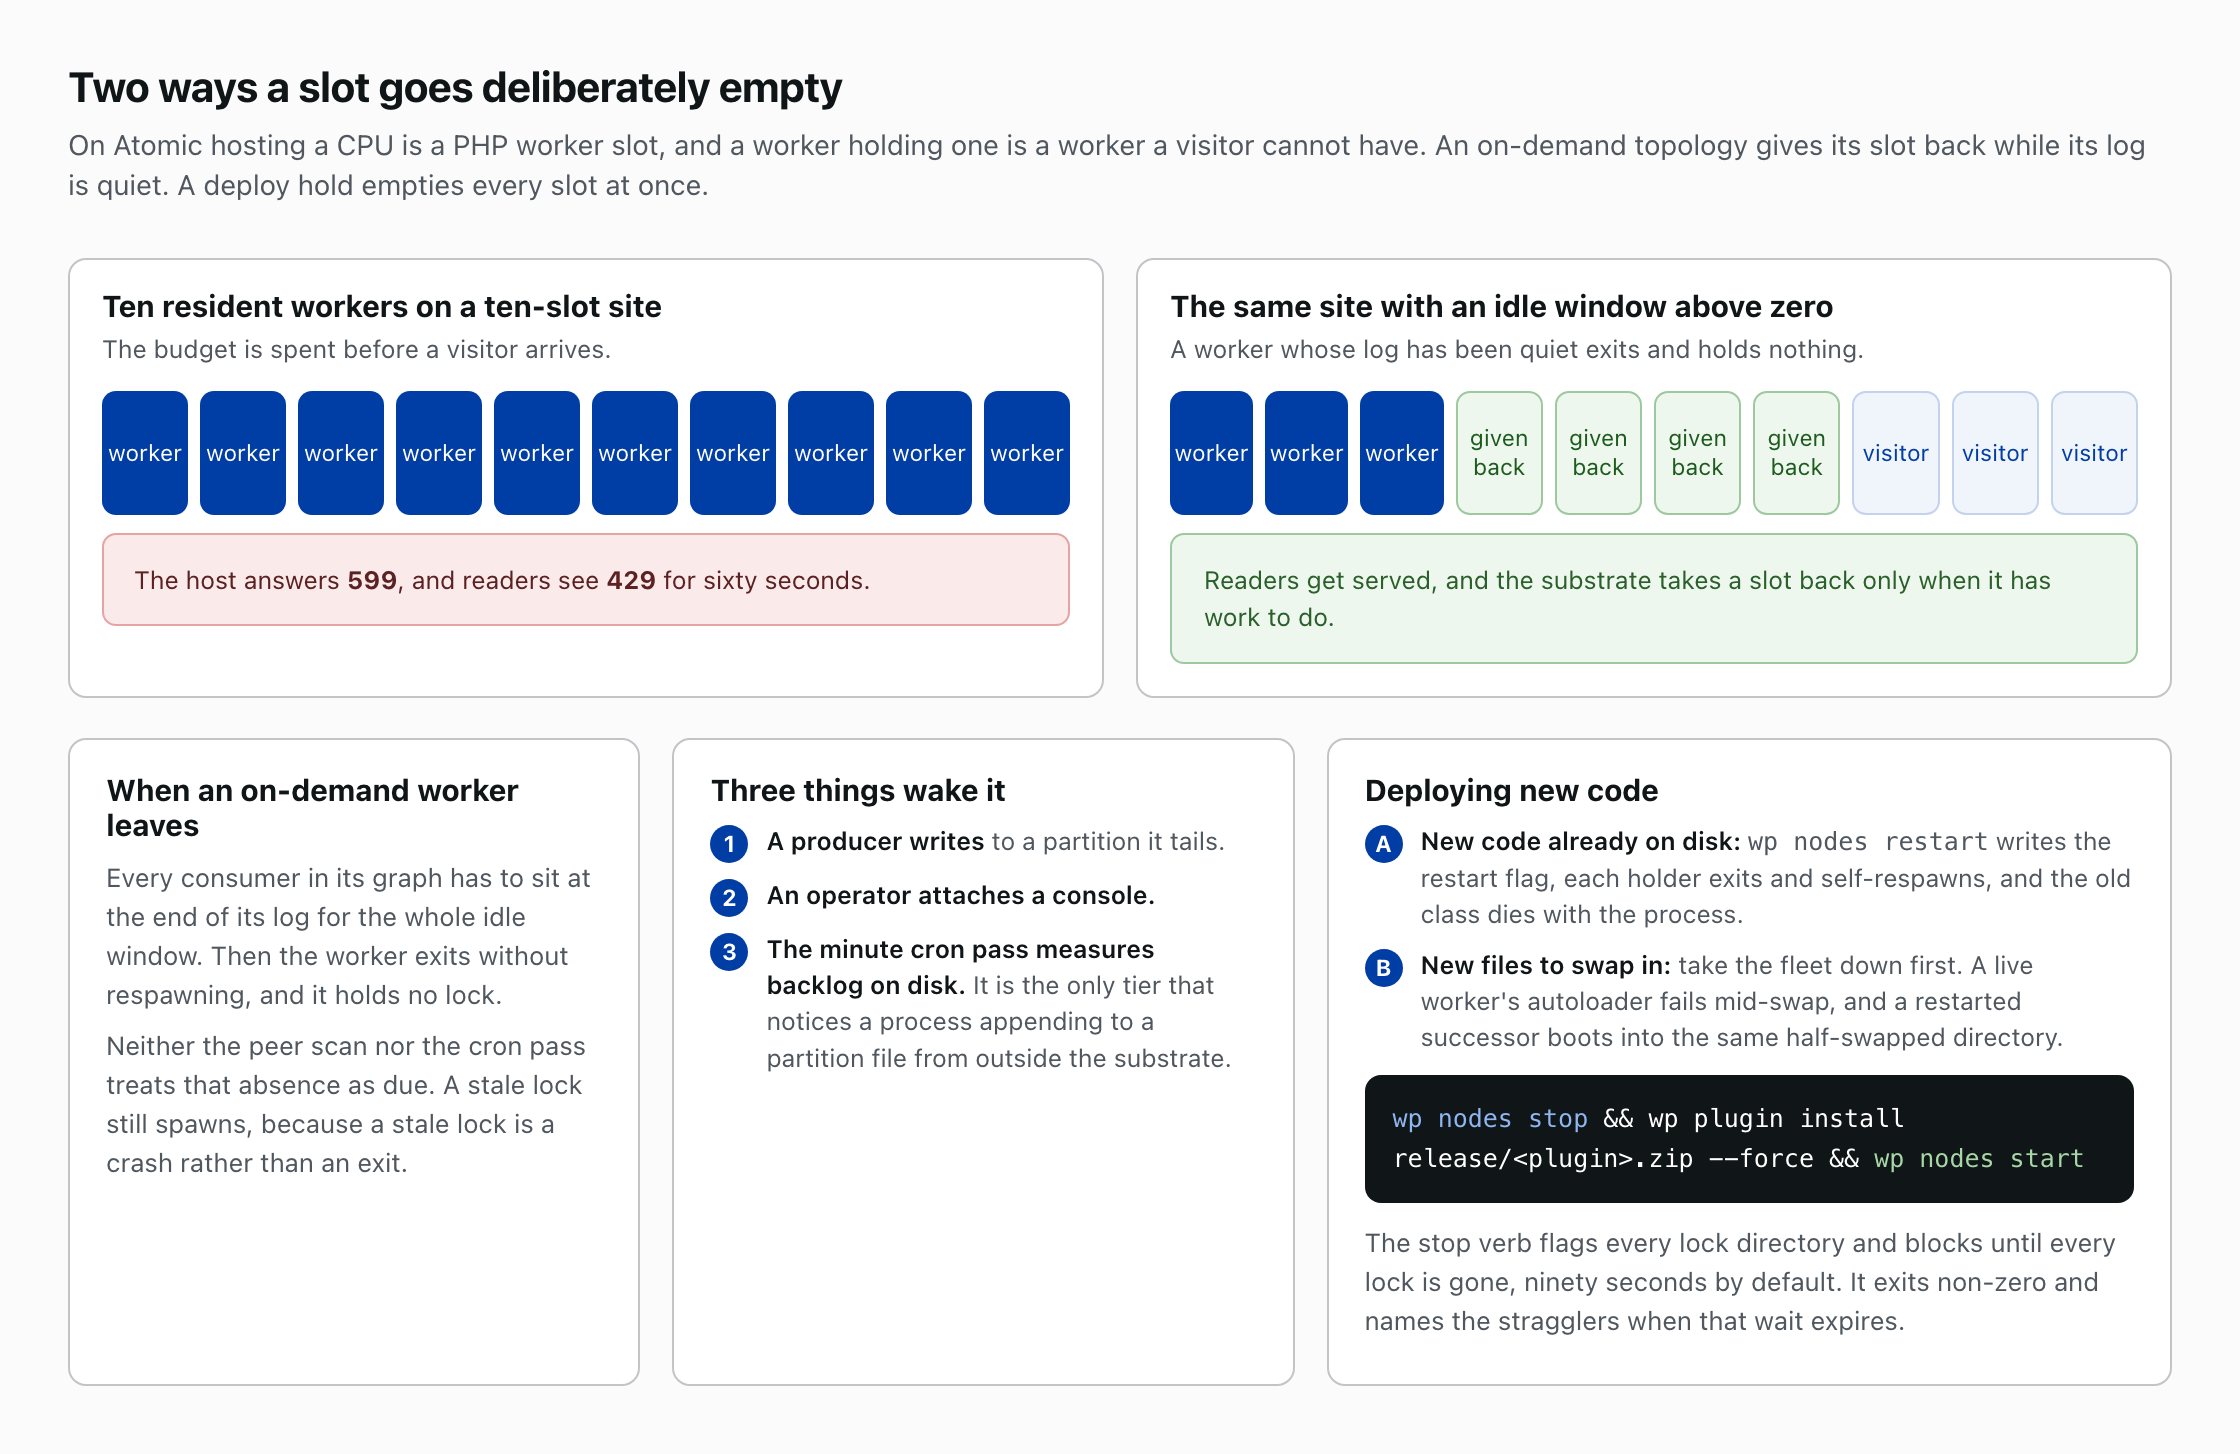
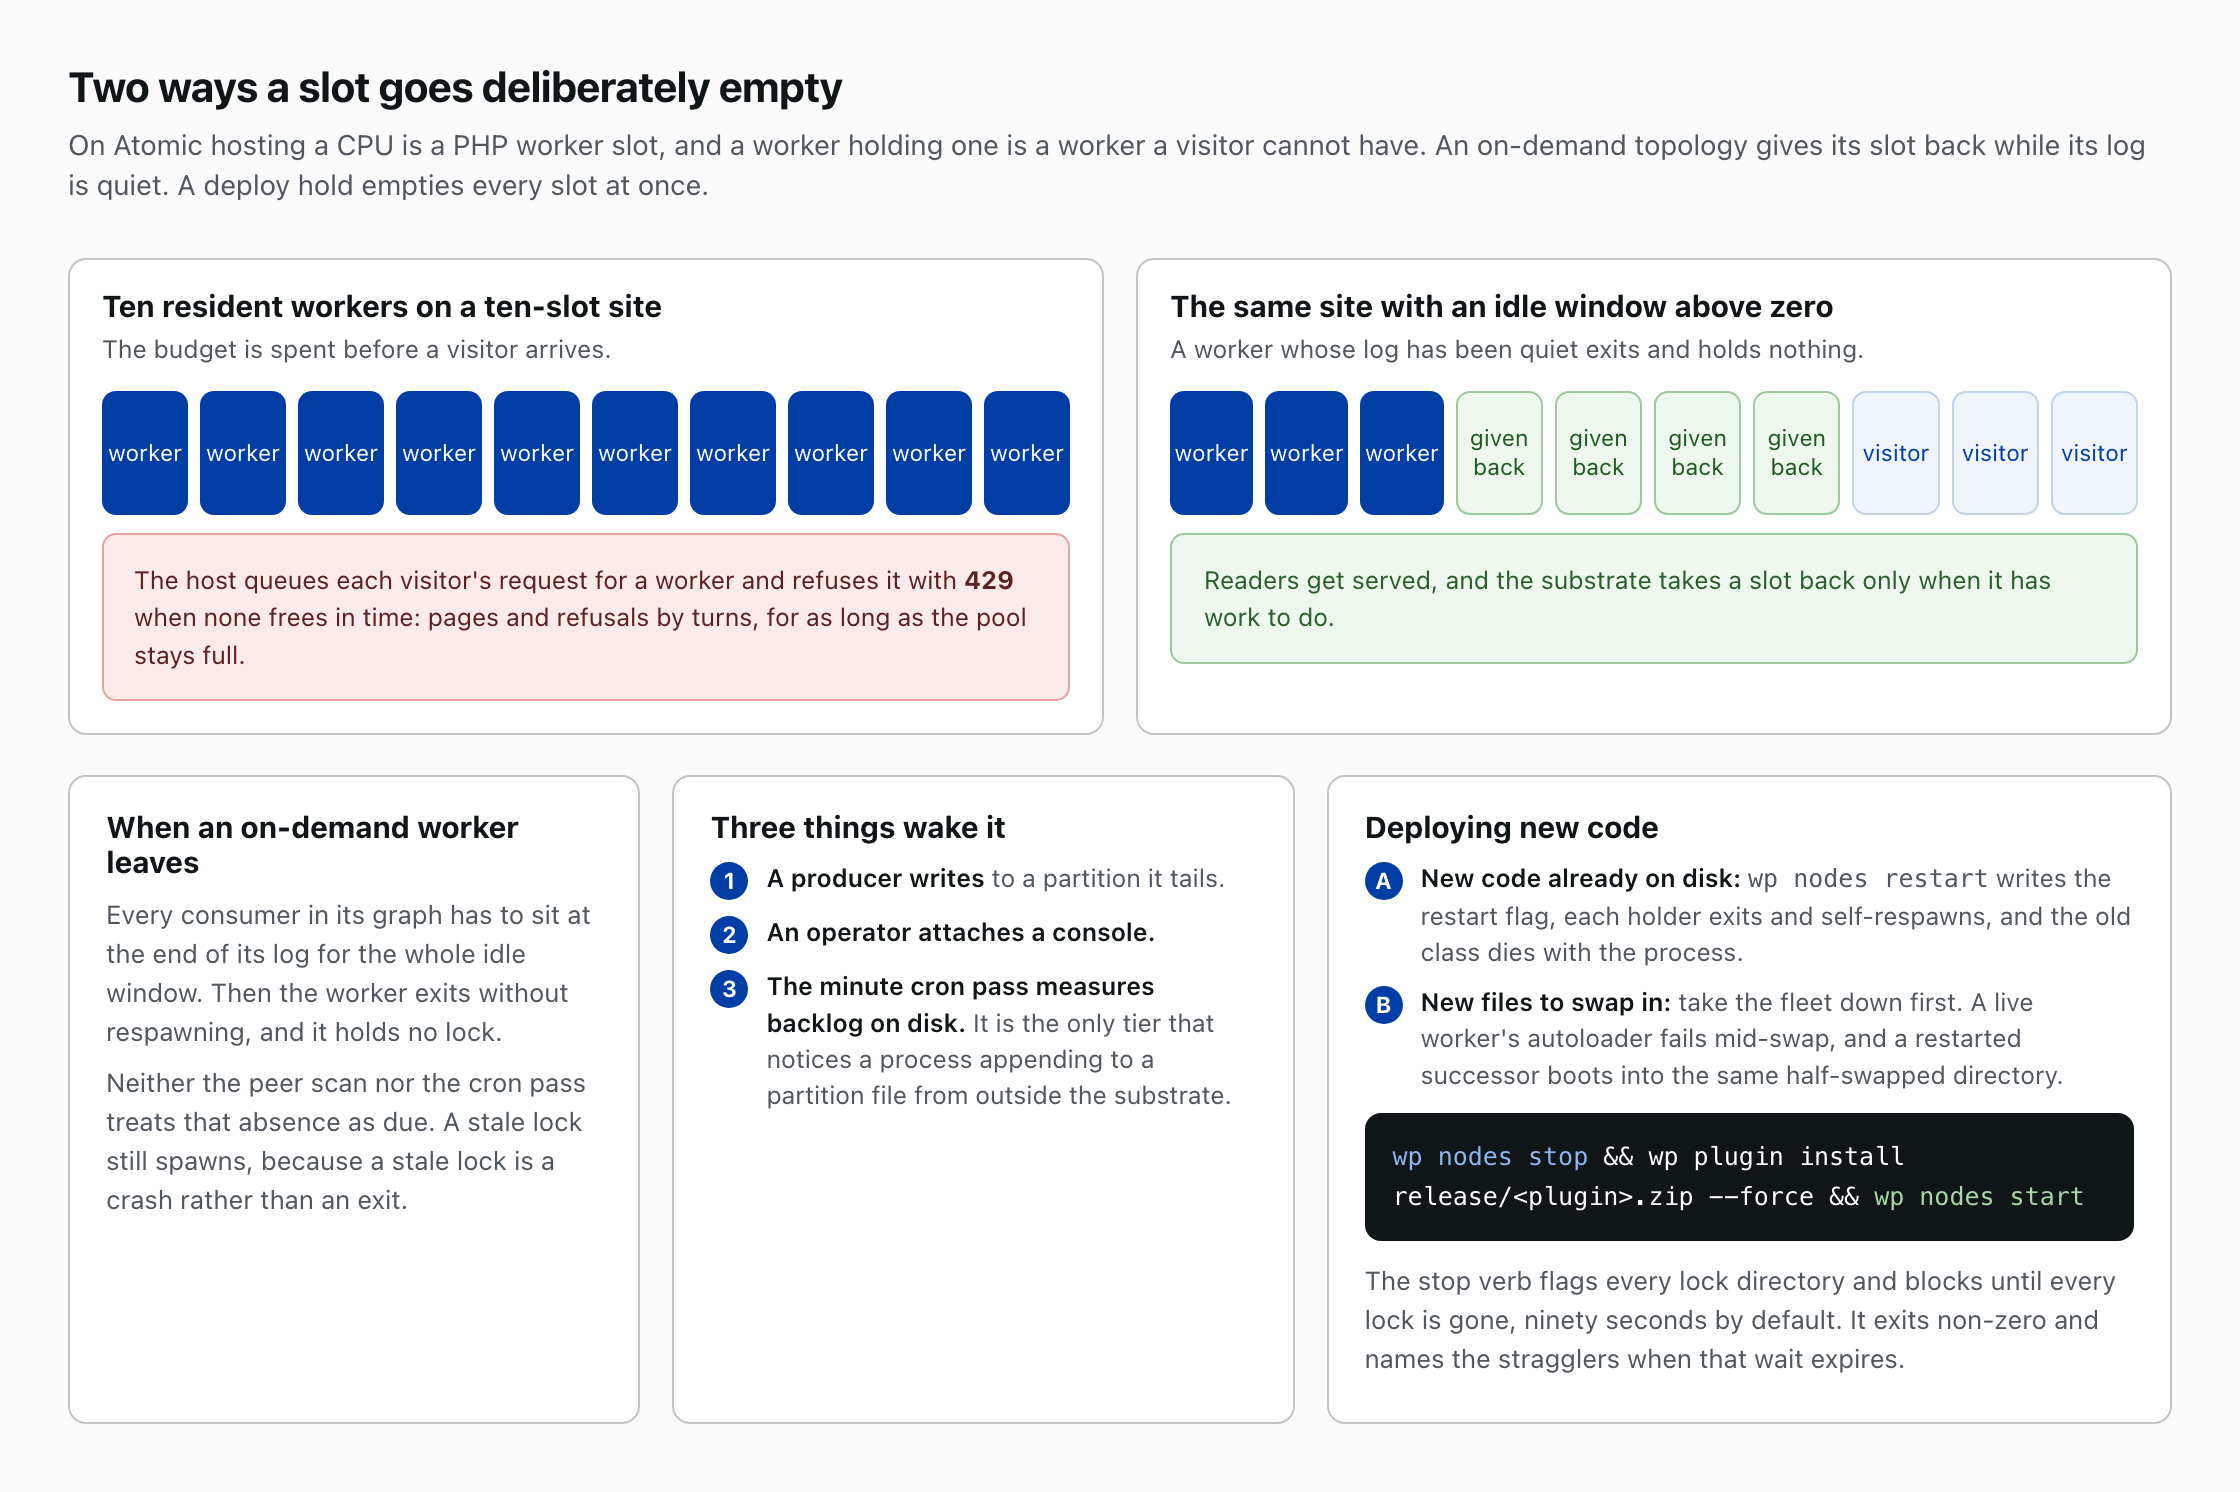
docs: a full worker pool refuses requests by turns, not for sixty seconds
Past the site's PHP worker allocation, Atomic queues each request for a
worker and refuses it with 429 when none frees in time, so readers get
pages and refusals request by request for as long as the pool stays
full. The sixty seconds the docs attached to that 429 belong to the
platform's edge challenge, a separate layer that is off for Newspack,
so the two chapters, two diagrams, the SSE budget rationale, the
2.29.0 upgrading entry and the slot-pool docblock now describe the
host's behaviour and name the edge challenge as optional.

diff --git a/docs/img/d08b.html b/docs/img/d08b.html
@@ -21,7 +21,7 @@ h2 { font-size:15px; margin:0 0 10px; }
 </style>
 <div class="sheet">
 <h1>The slot pool meters the stream</h1>
-<p class="sub">A stream holds one php-fpm child, one of the site's fixed pool of PHP processes, for its whole life. When PHP requests back up, the platform challenges every visitor for sixty seconds, so the pool caps streams before the platform steps in.</p>
+<p class="sub">A stream holds one php-fpm child, one of the site's fixed pool of PHP processes, for its whole life. Past the pool the platform queues each request for a worker and refuses it with 429 when none frees in time, so the pool caps streams before the platform steps in.</p>
 
 <h2>Six slots per host, three per identity, one lease each</h2>
 <div class="slots">

diff --git a/docs/img/d04c.html b/docs/img/d04c.html
@@ -43,7 +43,7 @@
         <div class="slot w">worker</div><div class="slot w">worker</div><div class="slot w">worker</div><div class="slot w">worker</div><div class="slot w">worker</div>
       </div>
       <div class="callout" style="margin-top:9px">
-        <p>The host answers <b>599</b>, and readers see <b>429</b> for sixty seconds.</p>
+        <p>The host queues each visitor's request for a worker and refuses it with <b>429</b> when none frees in time: pages and refusals by turns, for as long as the pool stays full.</p>
       </div>
     </div>
     <div class="bcard">

diff --git a/includes/class-sse-slot-pool.php b/includes/class-sse-slot-pool.php
@@ -87,8 +87,8 @@ class SSE_Slot_Pool {
 	 *
 	 * This is the cap that protects the site; the per-identity one only divides
 	 * it fairly. An SSE stream occupies a php-fpm child for its entire life, and
-	 * Atomic replies 599 once PHP requests backlog, which puts the EDGE into
-	 * auto-defensive mode for 60s for every visitor. The shipped 6 leaves room
+	 * past the site's worker allocation Atomic queues each request for a worker
+	 * and refuses it with 429 when none frees in time. The shipped 6 leaves room
 	 * in a ~10-worker allocation for page requests and the node worker itself.
 	 * See docs/sse-host-budget.md.
 	 *

diff --git a/docs/sse-host-budget.md b/docs/sse-host-budget.md
@@ -16,30 +16,39 @@ not per route.
 
 ## What the platform does when you run out
 
-Atomic replies **599** with an `a8c-internal-php-defensive-mode` header once a
-site has too many PHP requests backlogged. The edge host that received that
-response then turns on — or extends — **auto-defensive mode for 60 seconds**,
-locally, for that site. Every visitor routed through that edge host gets the
-challenge page, not just the traffic that caused the backlog.
+Every Atomic site has a PHP worker allocation, ten by default. Past it, the
+host holds each further PHP request in a queue for a worker, and a request no
+worker frees for in time is refused with a **429**. A request the queue does
+serve arrives slow; one it refuses arrives as an error page. So for as long as
+the workers stay busy, readers get pages and refusals by turns, request by
+request, and the stream that holds the worker sees neither.
+
+The platform may also put the site into defensive mode on its own: the edge
+location that saw the refusals answers every visitor through it with a
+browser challenge for a minute at a time, extended while the overload lasts.
+That mode was turned off for Newspack sites in February 2025, during its
+tuning, and nothing in this repository can confirm it still is, so treat it as
+a reprieve that can be withdrawn rather than as an exemption.
 
 Two consequences drive the defaults:
 
-- **The blast radius is the whole site, not the offending connection.** There is
-  no per-client shedding to hide behind. Saturating the workers degrades
-  everyone, which is why the cap must bind before the platform's does.
+- **The blast radius is the site's readers, not the offending connection.** A
+  stream holds its worker to the end, and the request that pays is the next
+  reader's. There is no per-client shedding to hide behind, which is why the
+  cap must bind before the platform's does.
 - **Burst capacity cannot be spent on something sustained.** Bursting above the
   configured allocation is explicitly not guaranteed, and sites that lean on it
   are expected to be resized rather than to keep leaning. A stream that holds a
   child for minutes is the exact shape of load that must fit inside the
   allocation.
 
-Source: [Clarification on Auto-Defensive
+Sources: [Clarification on Auto-Defensive
 Mode](https://edgeopsp2.wordpress.com/2025/02/27/clarification-on-auto-defensive-mode/)
-(edgeopsp2, 2025-02-27) — mechanism in Mark George's comment, the burst-capacity
-expectation and the 60-second window in Barry's. That post records the mode
-disabled for Newspack during tuning, and nothing in this repository can confirm
-it still is, so treat it as a reprieve that can be withdrawn rather than as an
-exemption.
+(edgeopsp2, 2025-02-27), the defensive-mode trigger in Mark George's comment,
+the burst-capacity expectation and the Newspack opt-out in Barry's; [429 & 599
+Errors](https://dotcomuniversity.wordpress.com/wow/site-performance/429-599-errors/)
+(dotcomuniversity) for the ten-worker default and the 429 a visitor sees past
+it.
 
 ## The arithmetic
 

diff --git a/docs/workers-and-the-fleet.md b/docs/workers-and-the-fleet.md
@@ -30,7 +30,7 @@ Every fifteen seconds the `_fleet` node in each live worker scans its peers' loc
 
 ## On-demand workers
 
-On Atomic a CPU is a PHP worker slot, and an idle worker holds one: ten resident workers on a ten-slot site spend the budget before a visitor arrives, the host answers 599, and readers see 429 for sixty seconds. A topology with an idle window above zero gives its slot back: once every consumer in its graph has sat at the end of its log for the whole window, the worker exits without respawning and holds no lock. Neither tier treats that absence as due, though a stale lock still spawns, because a stale lock is a crash. Three things wake it: a producer writing to a partition it tails, an operator attaching a console, and the minute cron pass measuring backlog on disk, the only tier that notices a write from outside the substrate. The resident set should hold only the topologies that cannot wait.
+On Atomic a CPU is a PHP worker slot, and an idle worker holds one: ten resident workers on a ten-slot site spend the budget before a visitor arrives, and the host then queues each visitor's request for a worker and refuses it with 429 when none frees in time, so readers get pages and refusals by turns for as long as the pool stays full. A topology with an idle window above zero gives its slot back: once every consumer in its graph has sat at the end of its log for the whole window, the worker exits without respawning and holds no lock. Neither tier treats that absence as due, though a stale lock still spawns, because a stale lock is a crash. Three things wake it: a producer writing to a partition it tails, an operator attaching a console, and the minute cron pass measuring backlog on disk, the only tier that notices a write from outside the substrate. The resident set should hold only the topologies that cannot wait.
 
 ## Deploy holds
 

diff --git a/docs/browser-runtime.md b/docs/browser-runtime.md
@@ -24,7 +24,7 @@ That stream is `GET /newspack-nodes/v1/messages/stream`, whose `subscribe` argum
 
 ## The slot pool
 
-The stream is the expensive channel. It holds one php-fpm child, one of the site's fixed pool of PHP processes, for its whole life, and a backlog of PHP requests makes the platform challenge every visitor for sixty seconds. The slot pool caps streams before the platform steps in.
+The stream is the expensive channel. It holds one php-fpm child, one of the site's fixed pool of PHP processes, for its whole life. Past the pool the platform queues each request for a worker and refuses it with 429 when none frees in time, so readers get pages and refusals by turns for as long as the pool stays full. The slot pool caps streams before the platform steps in.
 
 Each slot is two cache keys, a permanent owner pointer and an expiring lease, and nothing else. The defaults are six streams per host, three per identity and a sixty-second lease; a hub's pull of a spoke draws on the same six, and an identity holding three has its fourth tab refused with a 429. Acquire, check and touch fail closed: with no cache backend answering, ownership is unverifiable and every stream is refused; release fails open, because a lease expires anyway. One `_heartbeat` node per page pokes the heartbeat verb every fifteen seconds, pushing the lease out another sixty; the server reads it on every drain tick, about ten times a second, and extends nothing. A slot whose lease is missing is lost: the server disconnects the stream and releases the slot, so a closed tab's slot frees itself one lease after the last poke. A 429 fails the browser's EventSource outright, and the page reopens the stream under a backoff doubling from two seconds to a thirty-second ceiling, so a tab the pool keeps refusing settles at one attempt every thirty seconds.
 

diff --git a/CHANGELOG.md b/CHANGELOG.md
@@ -17,6 +17,8 @@ and this project adheres to [Semantic Versioning](https://semver.org/spec/v2.0.0
 
 ### Fixed
 
+- **The docs no longer say a full worker pool makes readers see 429 for sixty seconds.** Past the site's PHP worker allocation, Atomic queues each request for a worker and refuses it with 429 when none frees in time, so readers get pages and refusals by turns for as long as the pool stays full; the sixty seconds belong to the platform's optional edge challenge, which is a separate layer. `docs/sse-host-budget.md`, the two chapters and two diagrams that carried the claim, the `SSE_Slot_Pool::max_streams()` docblock and the 2.29.0 upgrading entry say so.
+
 - **A long reply printed by `wp nodes cli` was cut off on an interactive terminal and complete when the cli was piped.** `Stdin_Node` sets STDIN non-blocking so the REPL can poll it, and on a pty fd 0 and fd 1 share one open file description, so that O_NONBLOCK landed on STDOUT too; a single `fwrite` there then wrote what the pty buffer took (12,288 bytes in a probe) and returned the short count, which `Stdout_Node::write()`, `write_raw()`, and `TTY_Out_Node`'s redraw and `write_prompt()` each ignored. On a pipe the descriptions differ, so the write was complete. Every terminal write now goes through `Stdout_Node::write_all()`, which offers the remainder again after each short write and waits on `stream_select()` for writability when the stream refuses outright, giving up only on a closed stream or a failed write. `File_Writer::write_all()` stays the segment writer's loop, because its five-refusal budget and short-count report are the quarantine contract a full disk needs and a draining terminal does not.
 
 ### Removed

diff --git a/docs/upgrading.md b/docs/upgrading.md
@@ -483,8 +483,8 @@ Breaking changes that affect a plugin built on the substrate — topology files,
   Both bounds and the TTL are config keys (`sse_max_streams`, `sse_max_slots`,
   `sse_slot_ttl`). Read [sse-host-budget.md](sse-host-budget.md) before raising any
   of them — an SSE stream holds a php-fpm child for its whole life, and exhausting
-  the pool puts the EDGE into auto-defensive mode for 60 seconds for every visitor
-  to the site. Two bounds are enforced rather than documented: `sse_slot_ttl` is
+  the pool has the host refuse readers' requests with 429 while it stays
+  exhausted. Two bounds are enforced rather than documented: `sse_slot_ttl` is
   raised to the 45-second re-auth window when configured below it, and
   `sse_max_slots` is capped at `sse_max_streams`.
 
